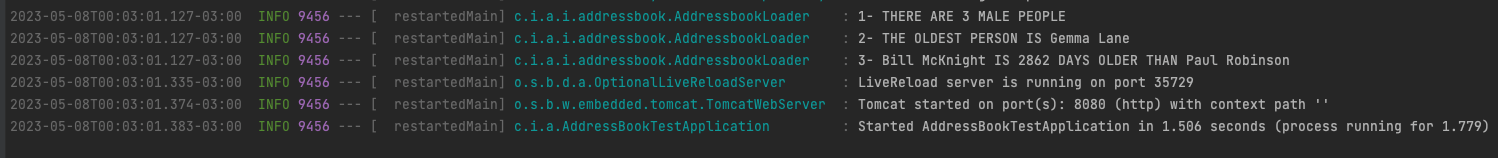
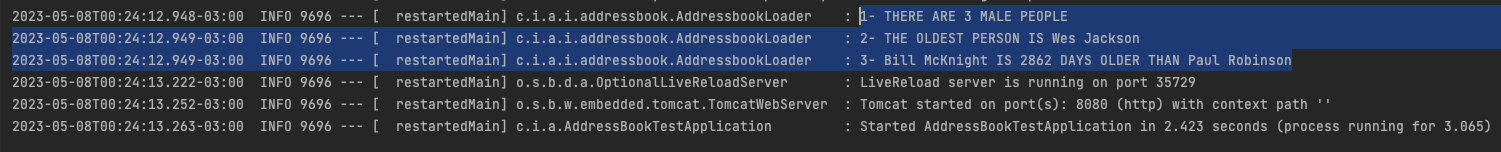
fix older getting from max instead min date

diff --git a/src/main/java/com/inpowered/addressbooktest/infrastructure/addressbook/InMemoryAddressbookRepository.java b/src/main/java/com/inpowered/addressbooktest/infrastructure/addressbook/InMemoryAddressbookRepository.java
@@ -41,7 +41,7 @@ public class InMemoryAddressbookRepository implements AddressbookRepository {
     public Optional<Person> getOldestPerson() {
         return addressbook.values()
                 .stream()
-                .max(Comparator.comparing(Person::getBirthDate));
+                .min(Comparator.comparing(Person::getBirthDate));
     }
 
     @Override

diff --git a/README.md b/README.md
@@ -12,3 +12,12 @@ To run the application um can run as any other spring boot with the following co
 and then:
 `mvn spring-boot:run`
 
+When the app finishes it's starting you'll see the following answers:
+
+`1- THERE ARE 3 MALE PEOPLE`
+
+`2- THE OLDEST PERSON IS Wes Jackson`
+
+`3- Bill McKnight IS 2862 DAYS OLDER THAN Paul Robinson`
+
+![alt text](https://github.com/czbadaro/addressbook/blob/main/result.png?raw=true)
